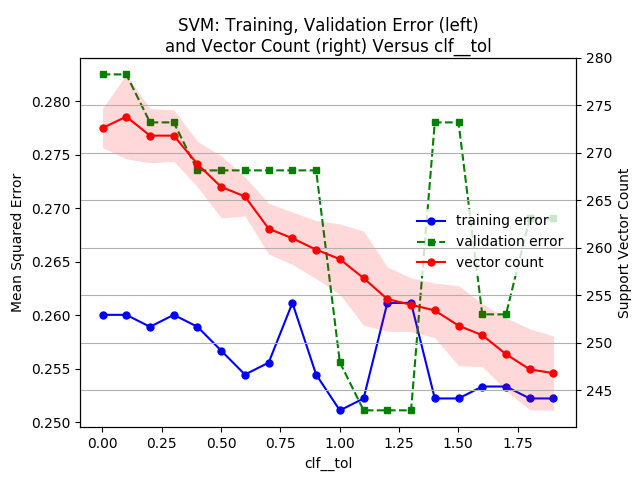
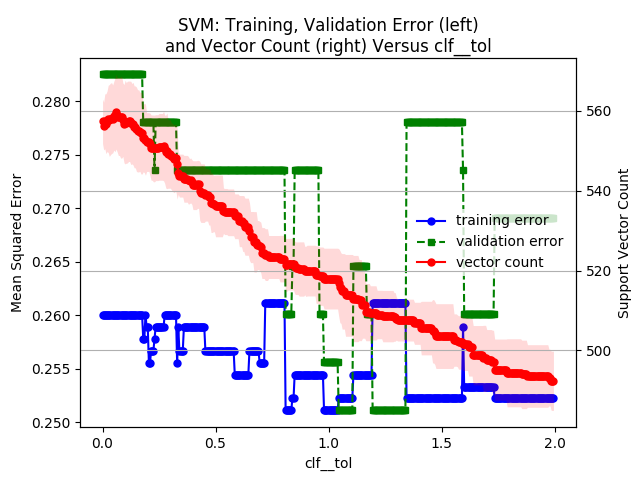
svm validation update

diff --git a/Assignment1/validation_curves_svm.py b/Assignment1/validation_curves_svm.py
@@ -96,10 +96,10 @@ class validation_curves:
         
         #kernel = 'poly'
         kernel = 'rbf'
-        params_dict = {'clf__C': np.arange(1, 1000, 20),
-                       'clf__max_iter': np.arange(0, 350, 5),
+        params_dict = {'clf__C': np.arange(1, 500, 4),
+                       'clf__max_iter': np.arange(0, 1000, 25),
                        'clf__gamma': np.arange(1, 50, 1),
-                       'clf__tol': np.arange(0.001, 2.0, 0.1)}
+                       'clf__tol': np.arange(0.000001, 2.0, 0.005)}
         
         #params_dict = {'clf__degree': np.arange(0, 15, 1)}
         
@@ -113,8 +113,8 @@ class validation_curves:
             std_in_sample_errors = []
             out_of_sample_avg_errors = []
             std_out_of_sample_errors = []
-            avg_num_nodes = []
-            std_num_nodes = []
+            avg_num_vectors = []
+            std_num_vectors = []
             
             for param_value in params_dict[param_name]:
                 print(param_value)
@@ -131,7 +131,7 @@ class validation_curves:
                 
                 out_sample_errors = []
                 in_sample_errors = []
-                num_nodes = []
+                num_vectors = []
                 
                 # do the cross validation
                 for k, (train, test) in enumerate(skf.split(X=X_train, y=y_train)):
@@ -140,8 +140,8 @@ class validation_curves:
                     clf.fit(X_train[train], y_train[train])
                     
                     # complexity
-                    nnodes = clf.clf.n_support_[0]
-                    num_nodes.append(nnodes)
+                    nvectors = clf.clf.n_support_.sum()
+                    num_vectors.append(nvectors)
                     
                     # in sample
                     predicted_values = clf.predict(X_train[train])
@@ -153,7 +153,7 @@ class validation_curves:
                     out_sample_mse = mean_squared_error(y_train[test], predicted_values)
                     out_sample_errors.append(out_sample_mse)
 
-                    print('Fold:', k+1, ', Validation error: ', out_sample_mse, ', Training error: ', in_sample_mse, ', Tree nodes: ', nnodes)
+                    print('Fold:', k+1, ', Validation error: ', out_sample_mse, ', Training error: ', in_sample_mse, ', Support vectors: ', nvectors)
                    
                 # out of sample (test)
                 avg_test_err = np.mean(out_sample_mse)
@@ -168,14 +168,14 @@ class validation_curves:
                 std_in_sample_errors.append(train_err_std)
                 
                 # complexity (num nodes)
-                avg_nodes = np.mean(num_nodes)
-                std_nodes = np.std(num_nodes)
-                avg_num_nodes.append(avg_nodes)
-                std_num_nodes.append(std_nodes)
+                avg_vectors = np.mean(num_vectors)
+                std_vectors = np.std(num_vectors)
+                avg_num_vectors.append(avg_vectors)
+                std_num_vectors.append(std_vectors)
                 
                 print('Avg validation MSE: ', avg_test_err, '+/-', test_err_std,
                       'Avg training MSE: ', avg_train_err, '+/-', train_err_std,
-                      'Avg num support vectors: ', avg_nodes, '+/-', std_nodes)
+                      'Avg num support vectors: ', avg_vectors, '+/-', std_vectors)
                 
                 x.append(param_value)
                 
@@ -185,8 +185,8 @@ class validation_curves:
             train_std = np.array(std_in_sample_errors)
             test_mean = np.array(out_of_sample_avg_errors)
             test_std = np.array(std_out_of_sample_errors)
-            nodes_mean = np.array(avg_num_nodes)
-            nodes_std = np.array(std_num_nodes)
+            vectors_mean = np.array(avg_num_vectors)
+            vectors_std = np.array(std_num_vectors)
             save_path= './output/'
 
             # plot
@@ -216,14 +216,14 @@ class validation_curves:
                              test_mean - test_std,
                              alpha=0.15, color='green')
             
-            l3 = ax2.plot(param_range, nodes_mean,
+            l3 = ax2.plot(param_range, vectors_mean,
                           color='red', marker='o',
                           markersize=5,
                           label='vector count')
             
             ax2.fill_between(param_range,
-                             nodes_mean + nodes_std,
-                             nodes_mean - nodes_std,
+                             vectors_mean + vectors_std,
+                             vectors_mean - vectors_std,
                              alpha=0.15, color='red')
             
             ax1.set_xlabel(param_name)
